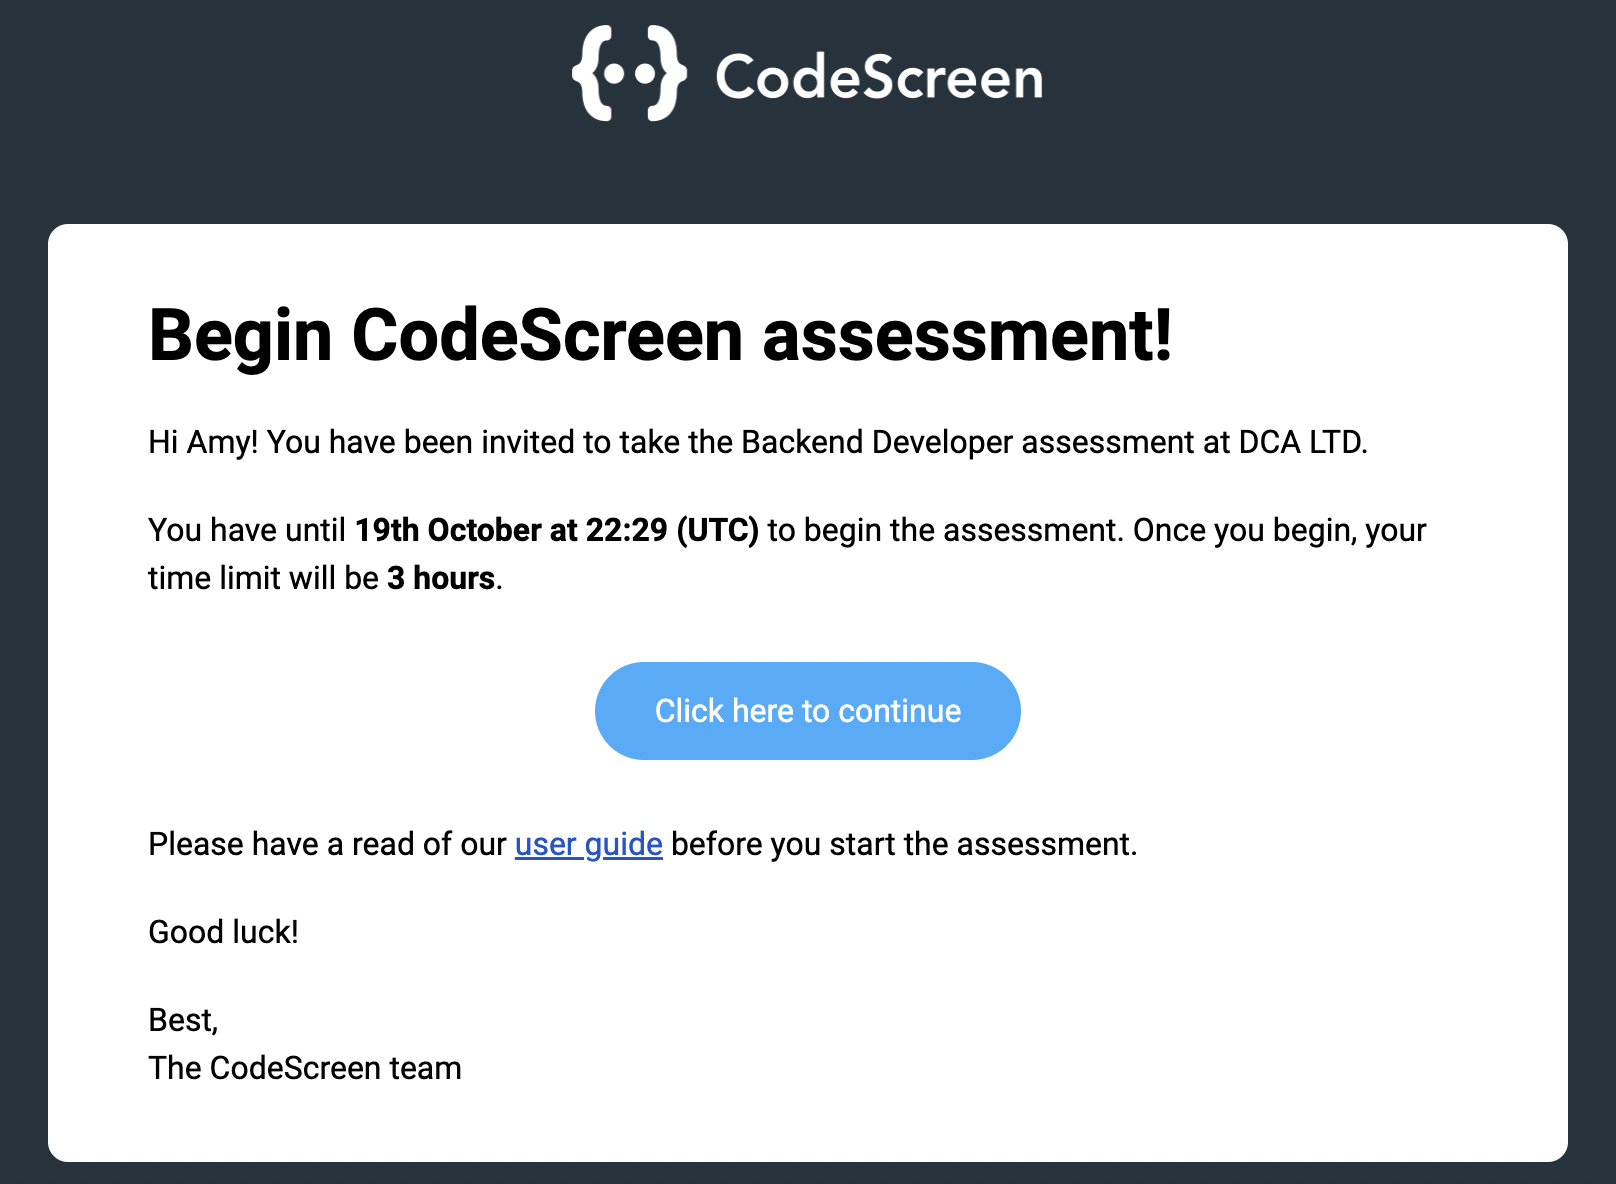
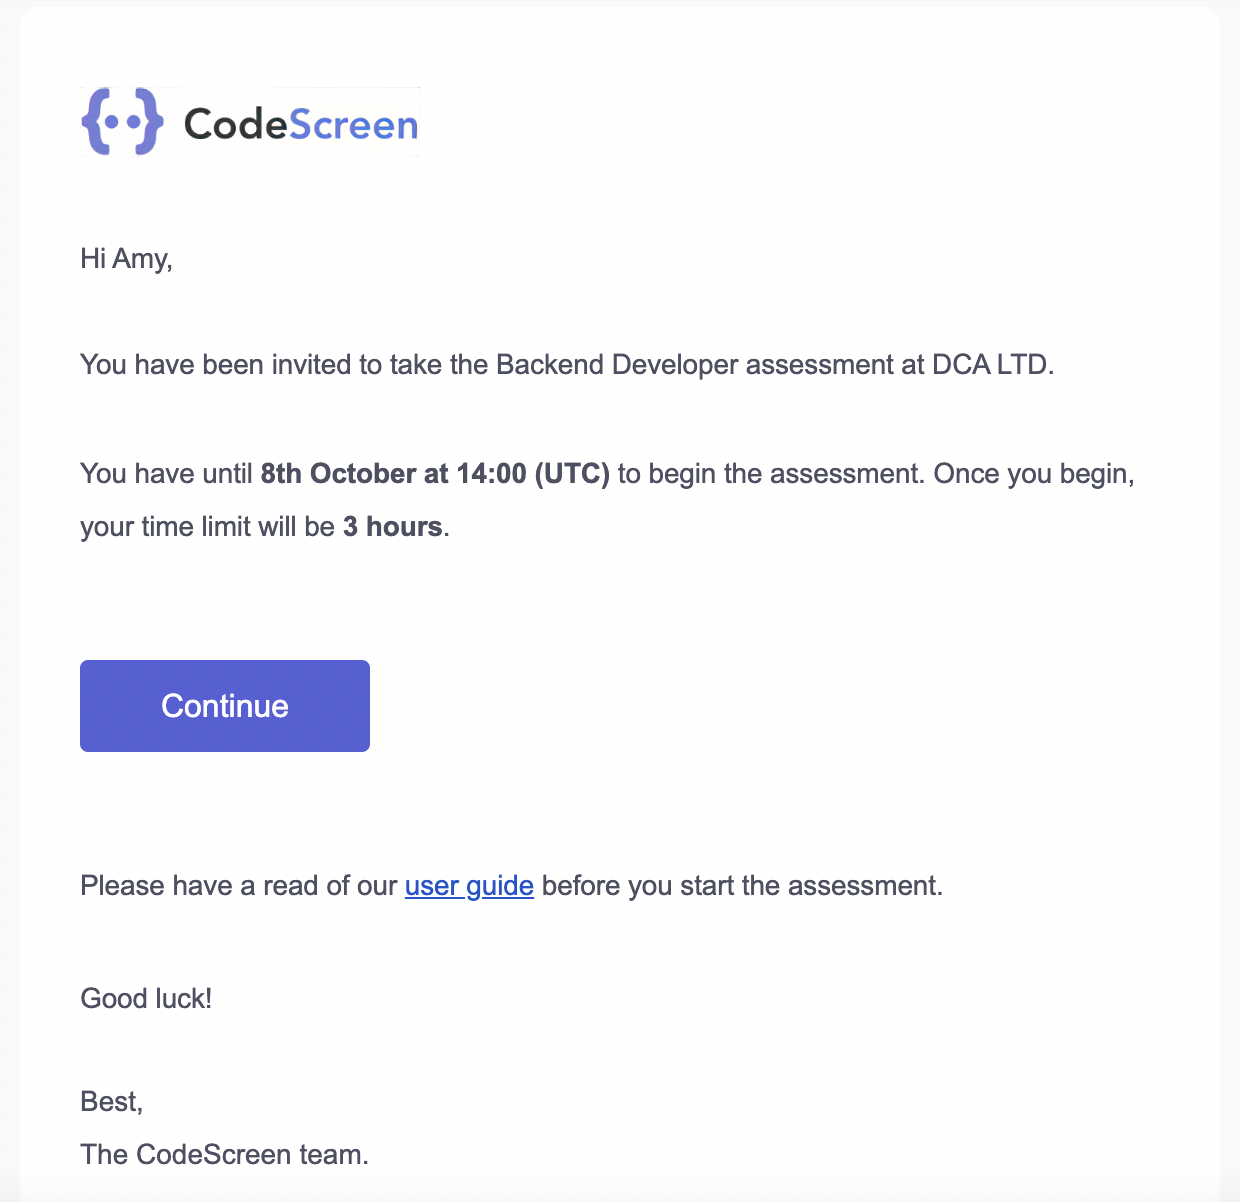
Updated Begin Assessment email screenshot

diff --git a/docs/begin-assessment.md b/docs/begin-assessment.md
@@ -7,12 +7,12 @@ To kick things off, you will receive an email similar to the following:
 <figure>
   <figcaption style="font-style: italic; font-weight: bold">Begin Assessment Email:</figcaption>
   </br>
-  <img style="max-width: 50%;" src="beginEmail.png" alt="Begin Assessment Email"/>
+  <img style="max-width: 60%;" src="beginEmail.png" alt="Begin Assessment Email"/>
 </figure>
 
 <br>
 
-Once you click the `Click here to continue` blue button, you will be brought to the following screen. **Note** your 
+Once you click the `Continue` button, you will be brought to the following screen. **Note** your 
 timer does not start at this point.
 
 <br>
